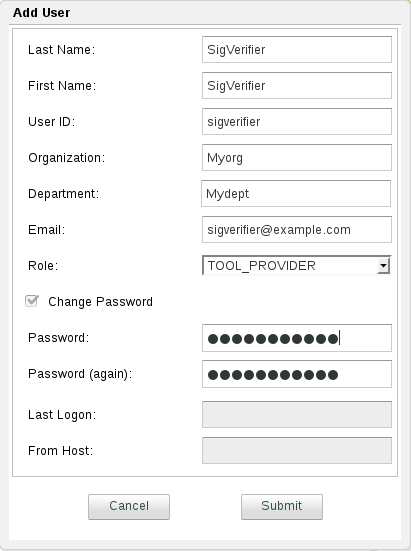
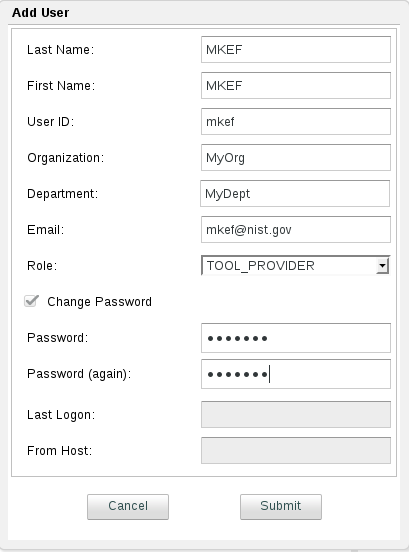
Updated content.

diff --git a/appvet_config.html b/appvet_config.html
@@ -25,12 +25,12 @@
 
 	In an AppVet system, online tools are required to have a user account
 	on AppVet in order to log in and post reports and risk assessments for
-	an app. To add an AppVet user account for the APK Signature Verifier
+	an app. To add an AppVet user account for the MasterKey-ExtraField Scanner
 	tool, start AppVet (i.e., start Tomcat on the AppVet server) and log in using an ADMIN user account. Next, select
 	<b>Admin &gt; Users</b> and select the
 	<b>Add</b> button. For this tool, set
 	<b>User ID</b> to
-	</i> 'sigverifier' and set
+	</i> 'mkef' and set
 	<b>Role</b> to 'TOOL_PROVIDER' in the Add User dialog box. All other
 	parameters should be set to appropriate values as shown, for example,
 	in Figure 1. Remember your selected
